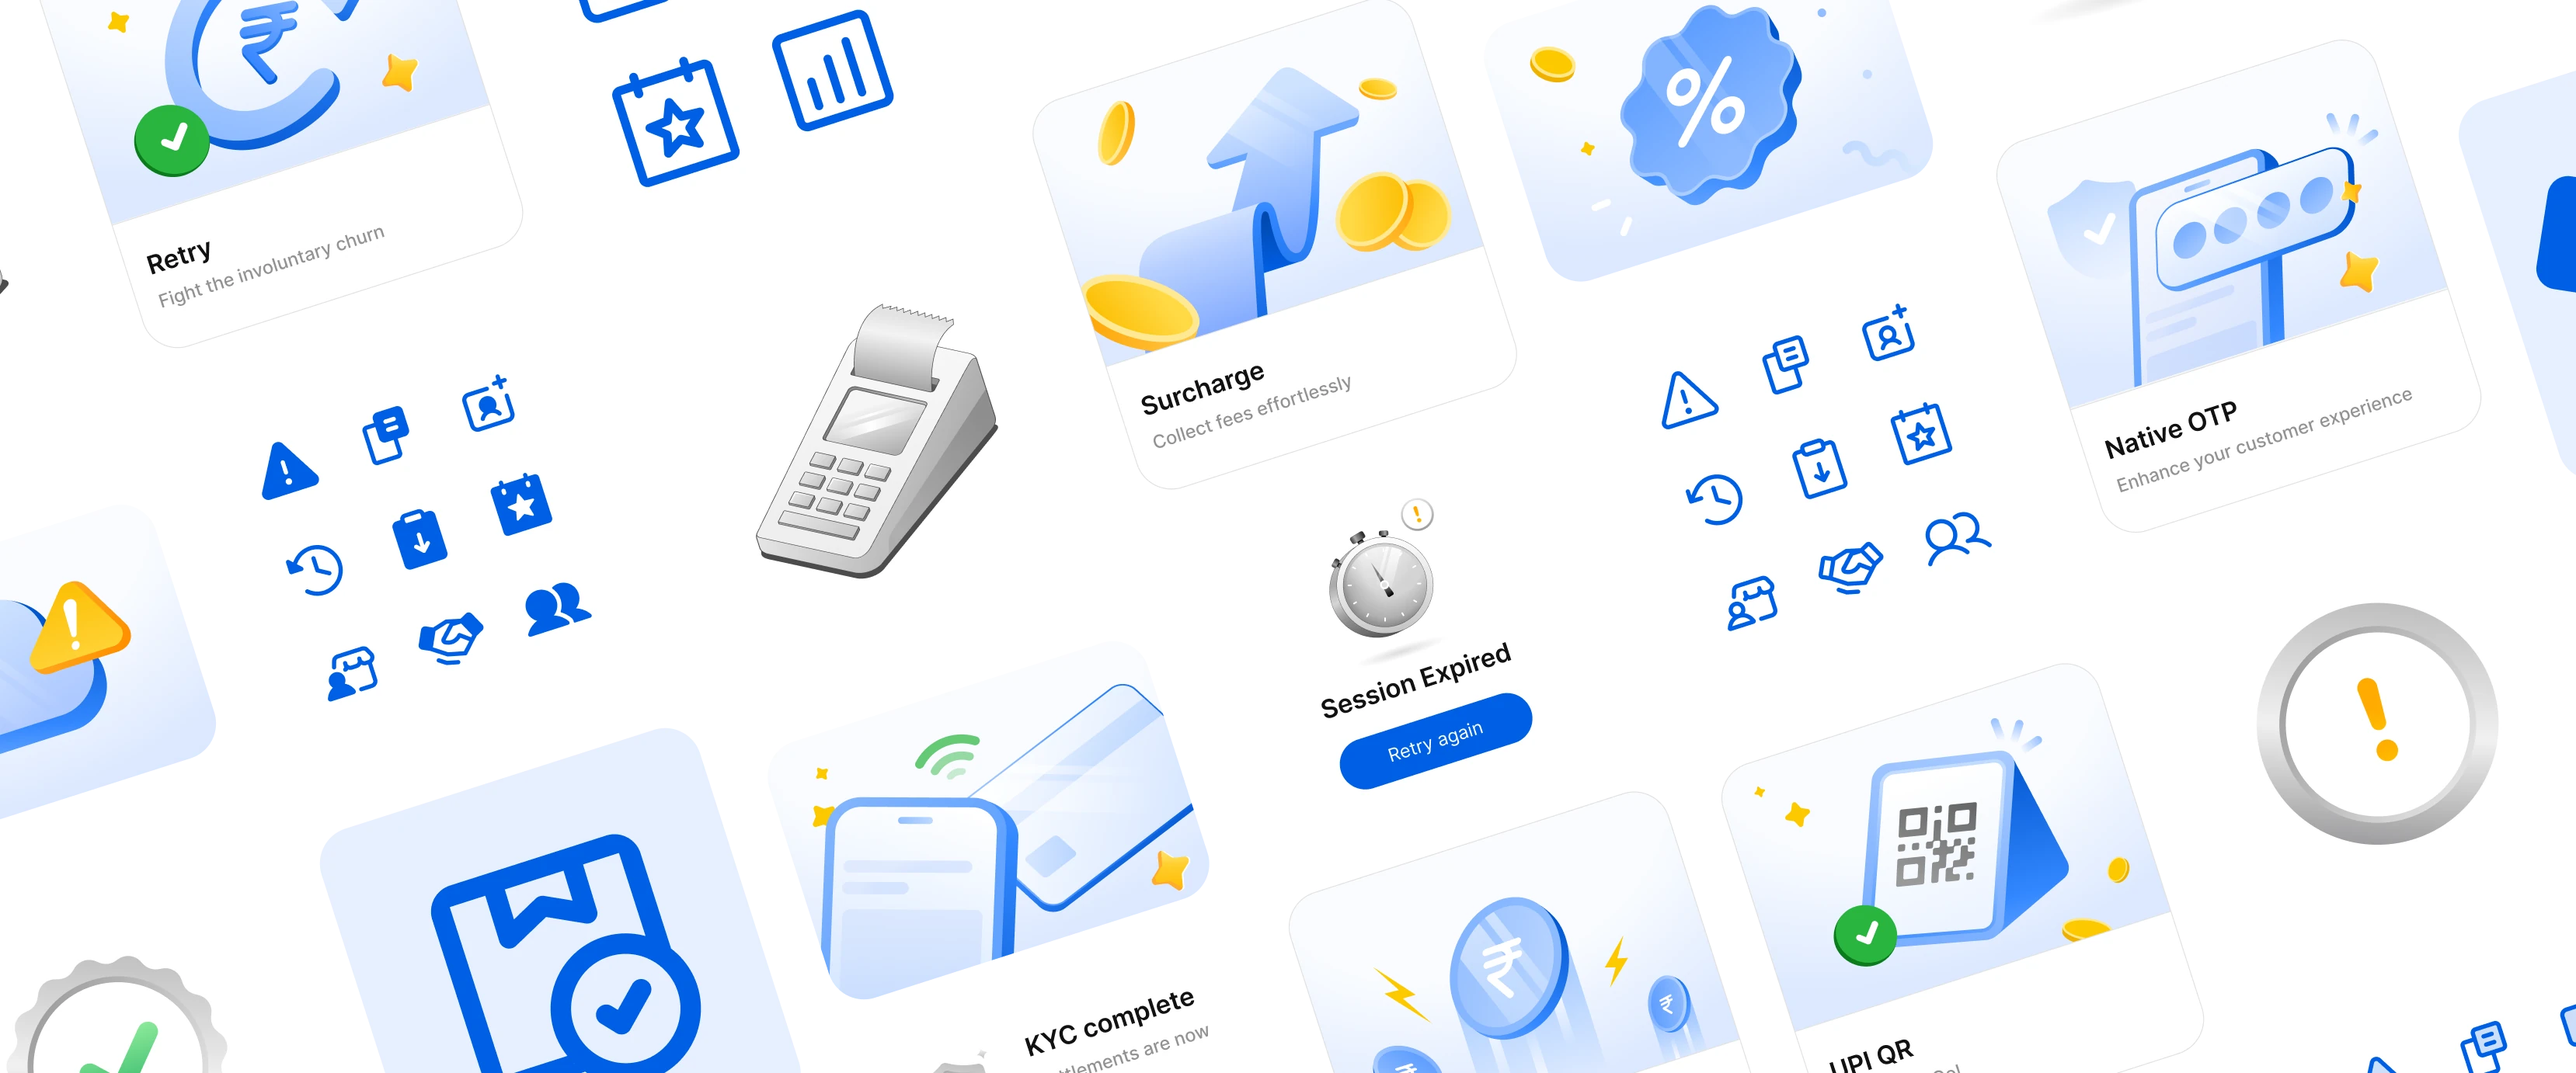
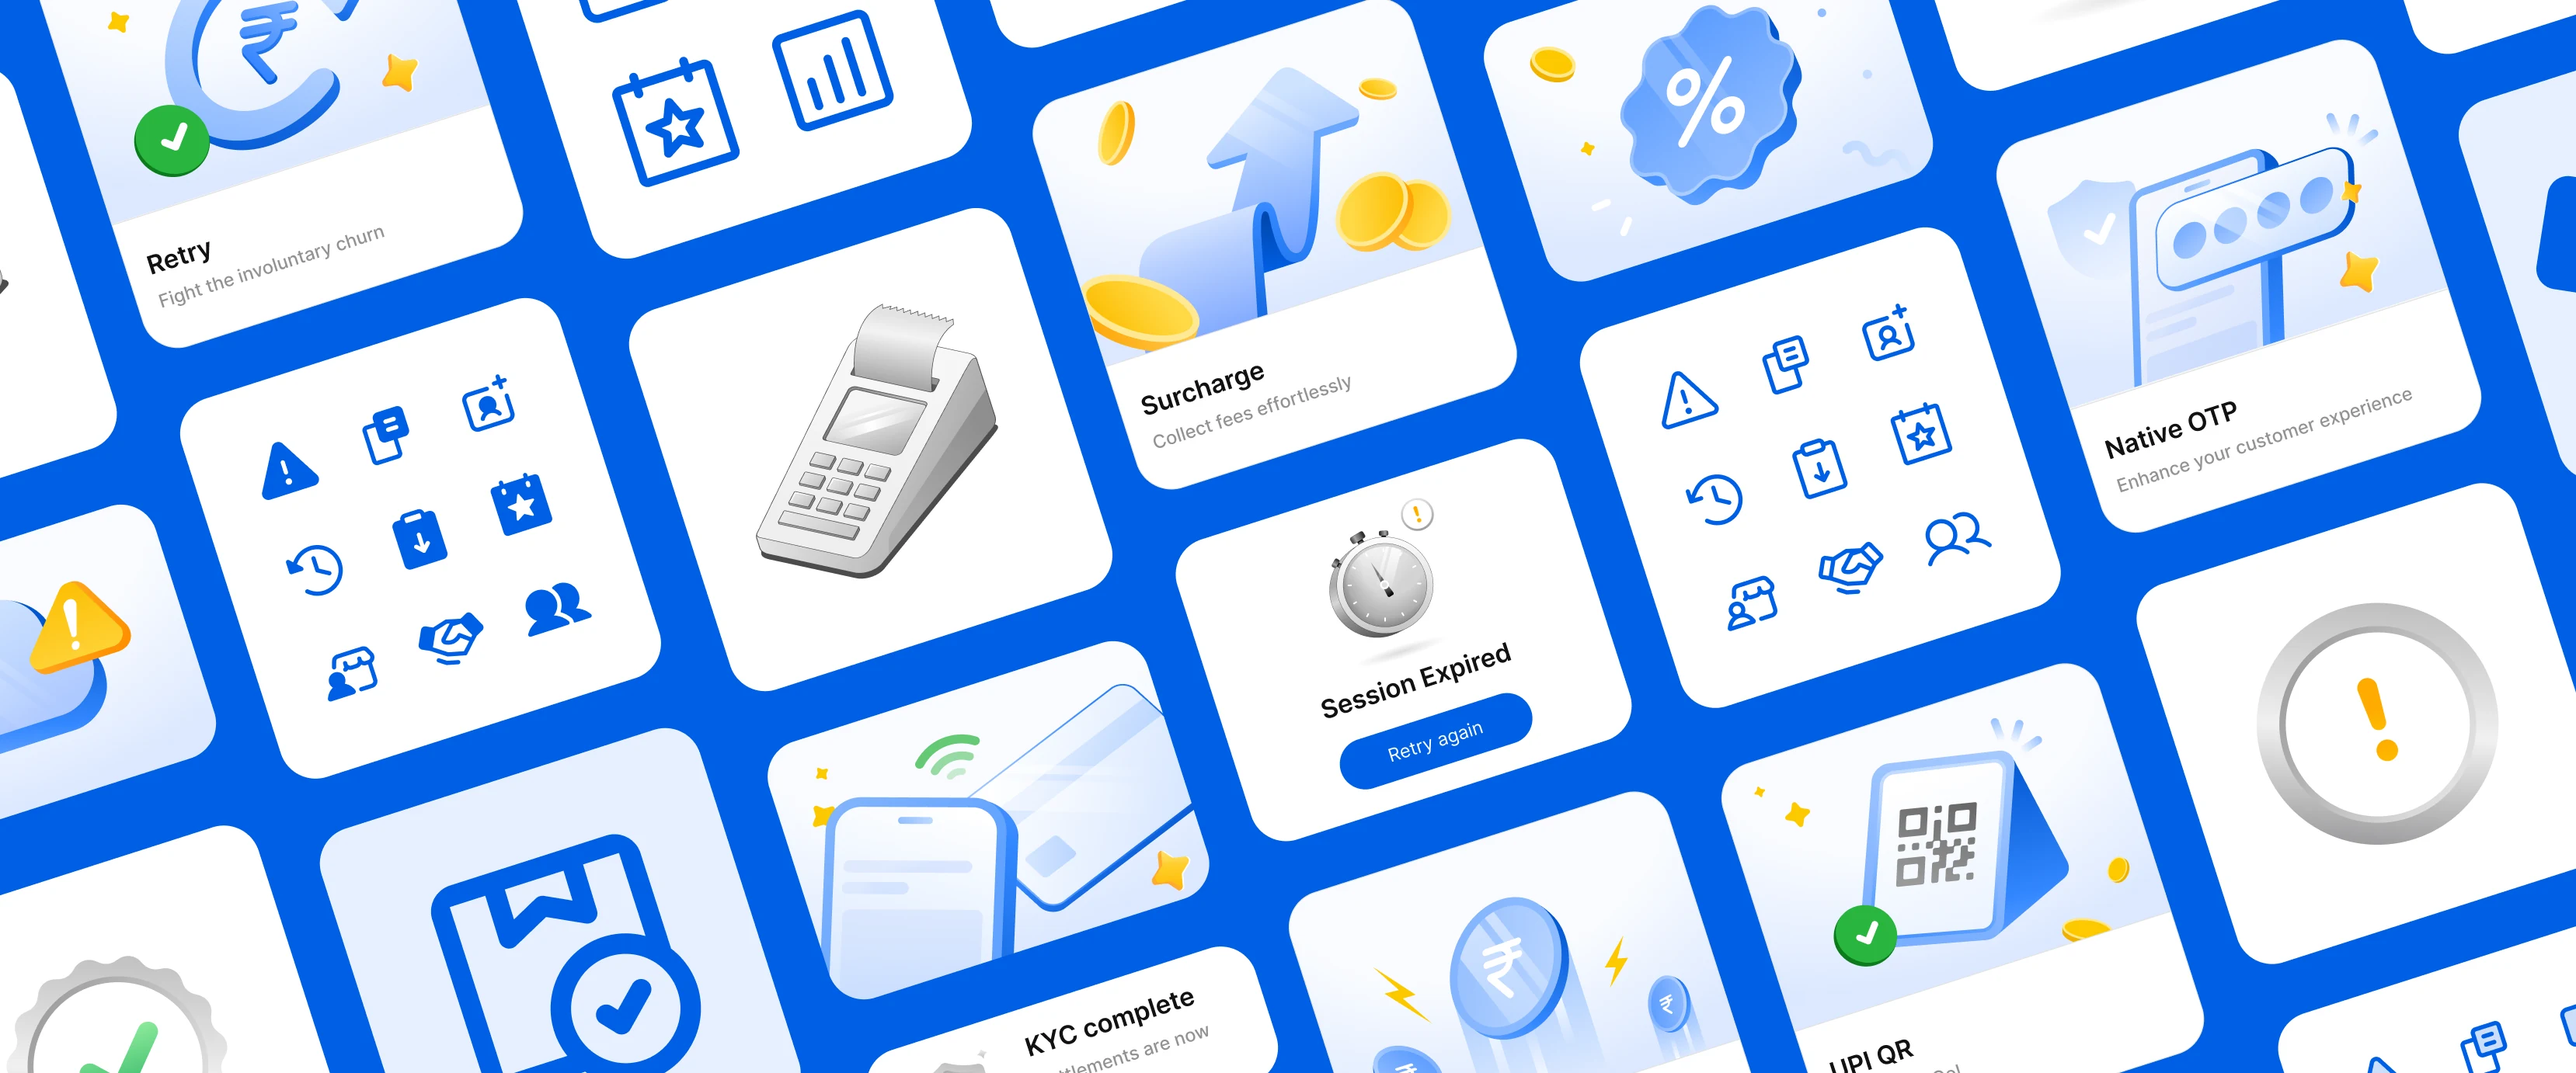
feat: update Juspay dashboard with uncropped cards and individual thumbnail grid

Changed region(s): [[0.0, 0.0, 1.0, 1.0]]

diff --git a/work/juspay-dashboard.html b/work/juspay-dashboard.html
@@ -85,9 +85,17 @@
     <div class="row cols-3 illus" style="row-gap:calc(60 * var(--s))"><div><figure class="slot contain" style="--ar:1/1;background:#fff" data-label="assets/dashboard/illustration-01.webp"><img src="../assets/dashboard/illustration-01.webp" alt="" loading="lazy"></figure><p class="caption">No Gateway</p></div><div><figure class="slot contain" style="--ar:1/1;background:#fff" data-label="assets/dashboard/illustration-02.webp"><img src="../assets/dashboard/illustration-02.webp" alt="" loading="lazy"></figure><p class="caption">Permission Denied</p></div><div><figure class="slot contain" style="--ar:1/1;background:#fff" data-label="assets/dashboard/illustration-03.webp"><img src="../assets/dashboard/illustration-03.webp" alt="" loading="lazy"></figure><p class="caption">No Network</p></div><div><figure class="slot contain" style="--ar:1/1;background:#fff" data-label="assets/dashboard/illustration-04.webp"><img src="../assets/dashboard/illustration-04.webp" alt="" loading="lazy"></figure><p class="caption">Session Expired</p></div><div><figure class="slot contain" style="--ar:1/1;background:#fff" data-label="assets/dashboard/illustration-05.webp"><img src="../assets/dashboard/illustration-05.webp" alt="" loading="lazy"></figure><p class="caption">No Search results</p></div><div><figure class="slot contain" style="--ar:1/1;background:#fff" data-label="assets/dashboard/illustration-06.webp"><img src="../assets/dashboard/illustration-06.webp" alt="" loading="lazy"></figure><p class="caption">No routing Rules</p></div><div><figure class="slot contain" style="--ar:1/1;background:#fff" data-label="assets/dashboard/illustration-07.webp"><img src="../assets/dashboard/illustration-07.webp" alt="" loading="lazy"></figure><p class="caption">No Transactions</p></div><div><figure class="slot contain" style="--ar:1/1;background:#fff" data-label="assets/dashboard/illustration-08.webp"><img src="../assets/dashboard/illustration-08.webp" alt="" loading="lazy"></figure><p class="caption">EMI</p></div><div><figure class="slot contain" style="--ar:1/1;background:#fff" data-label="assets/dashboard/illustration-09.webp"><img src="../assets/dashboard/illustration-09.webp" alt="" loading="lazy"></figure><p class="caption">No routing Rules</p></div><div><figure class="slot contain" style="--ar:1/1;background:#fff" data-label="assets/dashboard/illustration-10.webp"><img src="../assets/dashboard/illustration-10.webp" alt="" loading="lazy"></figure><p class="caption">Support Ticket</p></div><div><figure class="slot contain" style="--ar:1/1;background:#fff" data-label="assets/dashboard/illustration-11.webp"><img src="../assets/dashboard/illustration-11.webp" alt="" loading="lazy"></figure><p class="caption">No Added Cards</p></div><div><figure class="slot contain" style="--ar:1/1;background:#fff" data-label="assets/dashboard/illustration-12.webp"><img src="../assets/dashboard/illustration-12.webp" alt="" loading="lazy"></figure><p class="caption">No data found</p></div></div>
     <div class="row cols-6" style="margin-top:calc(100 * var(--s))"><div><figure class="slot contain" style="--ar:1/1;background:transparent" data-label="Success"><img src="../assets/dashboard/status-success.webp" alt="" loading="lazy"></figure><p class="caption">Success</p></div><div><figure class="slot contain" style="--ar:1/1;background:transparent" data-label="Approved"><img src="../assets/dashboard/status-approved.webp" alt="" loading="lazy"></figure><p class="caption">Approved</p></div><div><figure class="slot contain" style="--ar:1/1;background:transparent" data-label="KYC Complete"><img src="../assets/dashboard/status-kyc-complete.webp" alt="" loading="lazy"></figure><p class="caption">KYC Complete</p></div><div><figure class="slot contain" style="--ar:1/1;background:transparent" data-label="Info"><img src="../assets/dashboard/status-info.webp" alt="" loading="lazy"></figure><p class="caption">Info</p></div><div><figure class="slot contain" style="--ar:1/1;background:transparent" data-label="Alert"><img src="../assets/dashboard/status-alert.webp" alt="" loading="lazy"></figure><p class="caption">Alert</p></div><div><figure class="slot contain" style="--ar:1/1;background:transparent" data-label="Error"><img src="../assets/dashboard/status-error.webp" alt="" loading="lazy"></figure><p class="caption">Error</p></div></div></section>
   <section class="sec"><div class="sec-head"><h2 class="xl">Thumbnails</h2><p>Covers that explain a feature before anyone reads the card.</p></div>
-    <div class="row cols-2" style="text-align:center;font:500 max(15px,calc(24 * var(--s)))/1.2 var(--f-body);margin-bottom:calc(40 * var(--s))"><span>Before</span><span>After</span></div>
-    <div class="row cols-2"><figure class="slot contain thumb-card" style="--ar:1457/1296;background:transparent" data-label="assets/dashboard/thumbnail-before.webp  (1457×1296)"><img src="../assets/dashboard/thumbnail-before.webp" alt="Feature thumbnail before the redesign" loading="lazy"></figure><figure class="slot contain thumb-card thumb-after" style="--ar:1404/1298;background:transparent" data-label="assets/dashboard/thumbnail-after.webp  (1404×1298)"><img src="../assets/dashboard/thumbnail-after.webp" alt="Feature thumbnail after the redesign" loading="lazy"></figure></div>
-    <div style="margin-top:calc(60 * var(--s))"><figure class="slot " style="--ar:3032/2817;background:transparent" data-label="assets/dashboard/thumbnail-grid.webp"><img src="../assets/dashboard/thumbnail-grid.webp" alt="Grid of illustrated feature thumbnails" loading="lazy"></figure></div></section>
+    <div class="row cols-2 thumb-compare">
+      <div>
+        <div class="thumb-label">Before</div>
+        <figure class="slot contain" style="--ar:1505/1344;background:transparent" data-label="assets/dashboard/thumbnail-before.webp  (1505×1344)"><img src="../assets/dashboard/thumbnail-before.webp" alt="Feature thumbnail before the redesign" loading="lazy"></figure>
+      </div>
+      <div>
+        <div class="thumb-label">After</div>
+        <figure class="slot contain thumb-after" style="--ar:1450/1344;background:transparent" data-label="assets/dashboard/thumbnail-after.webp  (1450×1344)"><img src="../assets/dashboard/thumbnail-after.webp" alt="Feature thumbnail after the redesign" loading="lazy"></figure>
+      </div>
+    </div>
+    <div class="row cols-3 thumb-grid" style="margin-top:calc(60 * var(--s))"><figure class="slot" style="--ar:986/914;background:transparent" data-label="assets/dashboard/thumb-offers.webp"><img src="../assets/dashboard/thumb-offers.webp" alt="Offers feature thumbnail" loading="lazy"></figure><figure class="slot" style="--ar:986/914;background:transparent" data-label="assets/dashboard/thumb-upi-qr.webp"><img src="../assets/dashboard/thumb-upi-qr.webp" alt="UPI QR feature thumbnail" loading="lazy"></figure><figure class="slot" style="--ar:986/914;background:transparent" data-label="assets/dashboard/thumb-quick-pay.webp"><img src="../assets/dashboard/thumb-quick-pay.webp" alt="Quick pay feature thumbnail" loading="lazy"></figure><figure class="slot" style="--ar:986/914;background:transparent" data-label="assets/dashboard/thumb-native-otp.webp"><img src="../assets/dashboard/thumb-native-otp.webp" alt="Native OTP feature thumbnail" loading="lazy"></figure><figure class="slot" style="--ar:986/914;background:transparent" data-label="assets/dashboard/thumb-lock-payment.webp"><img src="../assets/dashboard/thumb-lock-payment.webp" alt="Lock Payment feature thumbnail" loading="lazy"></figure><figure class="slot" style="--ar:986/914;background:transparent" data-label="assets/dashboard/thumb-retry.webp"><img src="../assets/dashboard/thumb-retry.webp" alt="Retry feature thumbnail" loading="lazy"></figure><figure class="slot" style="--ar:986/914;background:transparent" data-label="assets/dashboard/thumb-native-otp-alt.webp"><img src="../assets/dashboard/thumb-native-otp-alt.webp" alt="Native OTP feature thumbnail, alternate art" loading="lazy"></figure><figure class="slot" style="--ar:986/914;background:transparent" data-label="assets/dashboard/thumb-tap-and-pay.webp"><img src="../assets/dashboard/thumb-tap-and-pay.webp" alt="Tap and Pay, Cards feature thumbnail" loading="lazy"></figure><figure class="slot" style="--ar:986/914;background:transparent" data-label="assets/dashboard/thumb-surcharge.webp"><img src="../assets/dashboard/thumb-surcharge.webp" alt="Surcharge feature thumbnail" loading="lazy"></figure></div></section>
 <nav class="proj-nav" aria-label="Project navigation"><a class="prev-proj" href="../work/hyperswitch-recon-video.html"><span class="np-label">Previous project</span><span class="np-title"><svg viewBox="0 0 24 24" fill="none" stroke="currentColor" stroke-width="2" stroke-linecap="round" stroke-linejoin="round" aria-hidden="true"><path d="M19 12H5M11 6l-6 6 6 6"/></svg>Hyperswitch Recon launch video</span></a><a class="next-proj" href="../work/xyne-icons.html"><span class="np-label">Next project</span><span class="np-title">Xyne icon system<svg viewBox="0 0 24 24" fill="none" stroke="currentColor" stroke-width="2" stroke-linecap="round" stroke-linejoin="round" aria-hidden="true"><path d="M5 12h14M13 6l6 6-6 6"/></svg></span></a></nav>
 </main>
 <script src="../site.js"></script>

diff --git a/style.css b/style.css
@@ -423,10 +423,8 @@ body.resume::after{display:none}
 }
 
 /* --- Juspay thumbnail cards --- */
-/* The card outline used to be baked into the artwork, flush with the image
-   boundary, where it rendered as a grey hairline. It is cropped out of the
-   source files now, so the silhouette is drawn here instead. The After art is
-   fractionally narrower than the Before art, so it is sized by width to keep
-   both cards at exactly the same height. */
-.thumb-card{border-radius:calc(10 * var(--s))}
-.thumb-after{width:96.22%;margin-inline:auto}
+.thumb-label{text-align:center;font:500 max(15px,calc(24 * var(--s)))/1.2 var(--f-body);margin-bottom:calc(40 * var(--s))}
+/* The After export is fractionally narrower than the Before export, so it is
+   sized by width rather than by column to keep both cards exactly the same
+   height. 1505/1344 vs 1450/1344 gives 96.34%. */
+.thumb-after{width:96.34%;margin-inline:auto}

diff --git a/assets/ASSETS.md b/assets/ASSETS.md
@@ -46,9 +46,17 @@ Export each at 2x. Sizes are the slot size in Figma (the file can be 2x of this)
 | `assets/dashboard/layer-illustrations.webp` | 492×492 | image |
 | `assets/dashboard/layer-thumbnails.webp` | 492×492 | image |
 | `assets/dashboard/navigation-groups.webp` | 1658×491 | image |
-| `assets/dashboard/thumbnail-before.webp` | 751×672 | image |
-| `assets/dashboard/thumbnail-after.webp` | 751×672 | image |
-| `assets/dashboard/thumbnail-grid.webp` | 3064×2849 | image |
+| `assets/dashboard/thumbnail-before.webp` | 752×672 | image |
+| `assets/dashboard/thumbnail-after.webp` | 725×672 | image |
+| `assets/dashboard/thumb-offers.webp` | 493×457 | image |
+| `assets/dashboard/thumb-upi-qr.webp` | 493×457 | image |
+| `assets/dashboard/thumb-quick-pay.webp` | 493×457 | image |
+| `assets/dashboard/thumb-native-otp.webp` | 493×457 | image |
+| `assets/dashboard/thumb-lock-payment.webp` | 493×457 | image |
+| `assets/dashboard/thumb-retry.webp` | 493×457 | image |
+| `assets/dashboard/thumb-native-otp-alt.webp` | 493×457 | image |
+| `assets/dashboard/thumb-tap-and-pay.webp` | 493×457 | image |
+| `assets/dashboard/thumb-surcharge.webp` | 493×457 | image |
 | `assets/xyne/keyline-circle.webp` | 1×1 | image |
 | `assets/xyne/keyline-square.webp` | 1×1 | image |
 | `assets/xyne/keyline-portrait.webp` | 1×1 | image |
